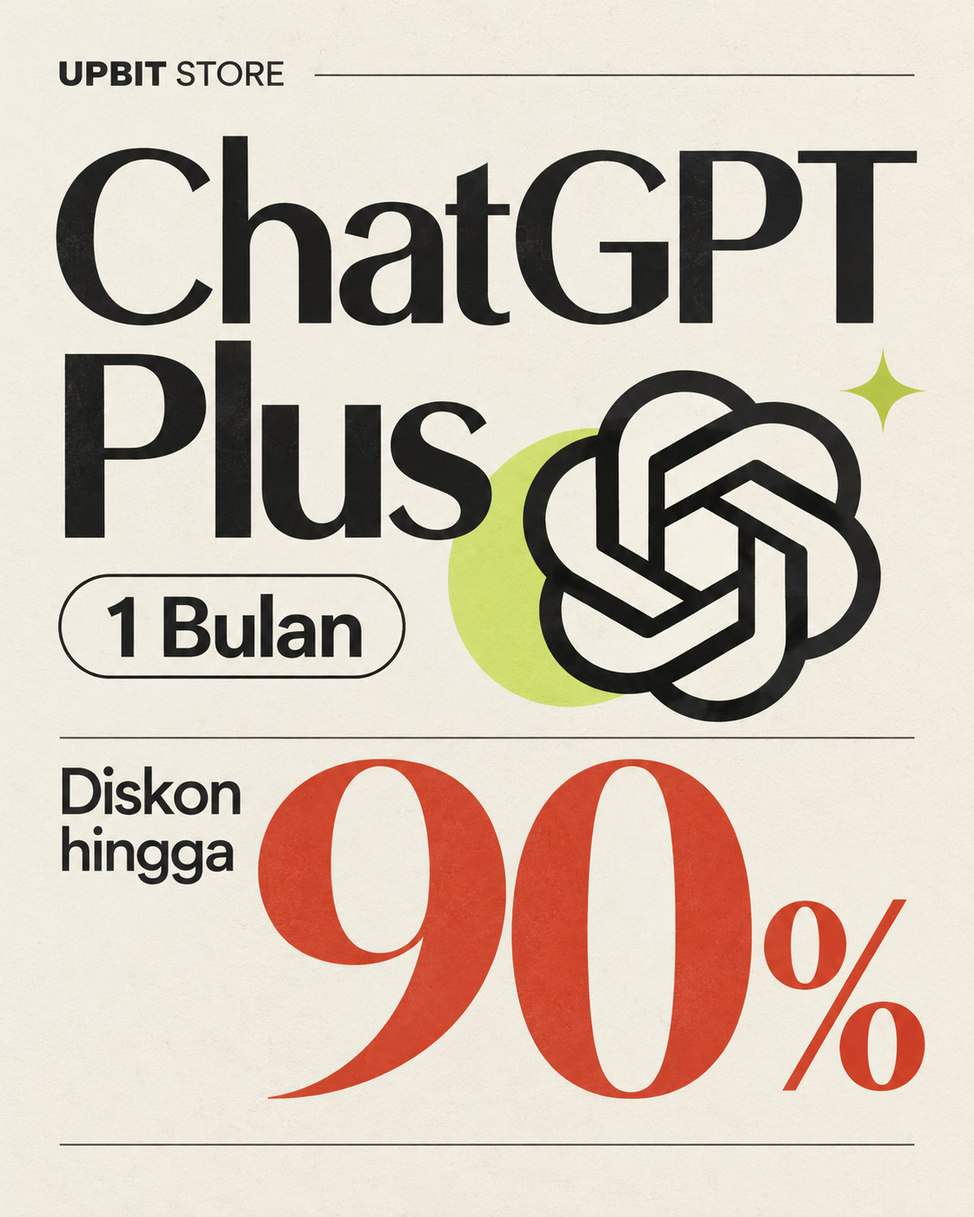
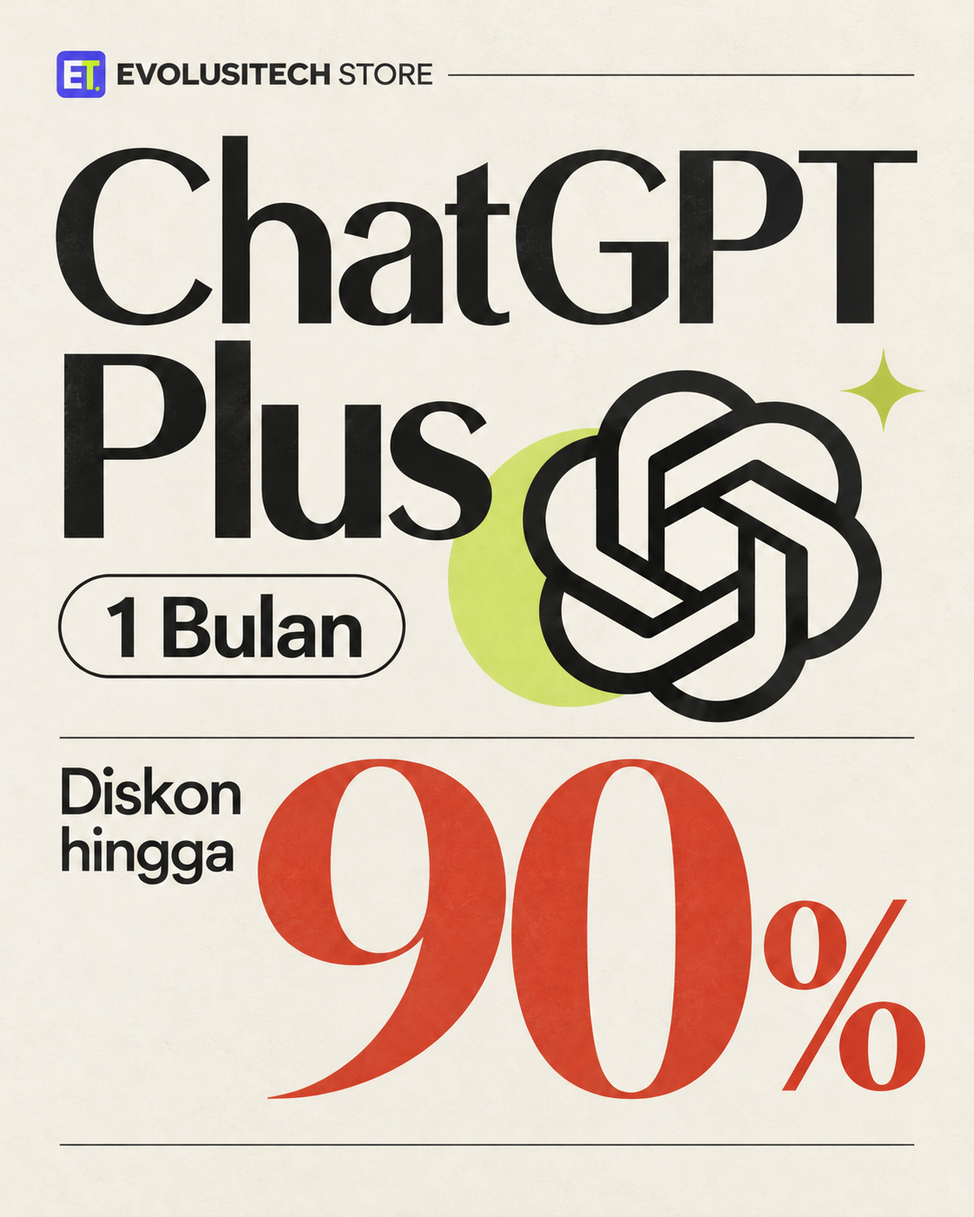
Rebrand storefront as EvolusiTech Store

Changed region(s): [[0.0624, 0.0307, 0.4367, 0.092], [0.8734, 0.4601, 0.9046, 0.4907]]

diff --git a/app/src/i18n/translations.js b/app/src/i18n/translations.js
@@ -1,5 +1,5 @@
-// Kamus multi-bahasa Upbit Store. Struktur per-key: { key: { en, zh, ja, id, ru, ms, hi, de, vi } }.
-// Brand & nama produk (Upbit Store, Claude, ChatGPT, Gemini, AI) tidak diterjemahkan.
+// Kamus multi-bahasa EvolusiTech Store. Struktur per-key: { key: { en, zh, ja, id, ru, ms, hi, de, vi } }.
+// Brand & nama produk (EvolusiTech Store, Claude, ChatGPT, Gemini, AI) tidak diterjemahkan.
 
 // Daftar bahasa untuk switcher. `name` = nama asli bahasa, `tag` = label singkat.
 export const LANGS = [
@@ -93,11 +93,11 @@ export const T = {
   'footer.warranty': { en: 'Warranty', zh: '保障', ja: '保証', id: 'Garansi', ru: 'Гарантия', ms: 'Jaminan', hi: 'वारंटी', de: 'Garantie', vi: 'Bảo hành' },
   'footer.contact': { en: 'Contact', zh: '联系', ja: 'お問い合わせ', id: 'Kontak', ru: 'Контакты', ms: 'Hubungi', hi: 'संपर्क', de: 'Kontakt', vi: 'Liên hệ' },
   'footer.faq': { en: 'FAQ', zh: '常见问题', ja: 'よくある質問', id: 'FAQ', ru: 'Вопросы', ms: 'Soalan Lazim', hi: 'सामान्य प्रश्न', de: 'FAQ', vi: 'Câu hỏi' },
-  'footer.rights': { en: '© 2026 Upbit Store. All rights reserved.', zh: '© 2026 Upbit Store. 版权所有。', ja: '© 2026 Upbit Store. 無断転載を禁じます。', id: '© 2026 Upbit Store. Seluruh hak cipta dilindungi.', ru: '© 2026 Upbit Store. Все права защищены.', ms: '© 2026 Upbit Store. Hak cipta terpelihara.', hi: '© 2026 Upbit Store. सर्वाधिकार सुरक्षित।', de: '© 2026 Upbit Store. Alle Rechte vorbehalten.', vi: '© 2026 Upbit Store. Bảo lưu mọi quyền.' },
+  'footer.rights': { en: '© 2026 EvolusiTech Store. All rights reserved.', zh: '© 2026 EvolusiTech Store. 版权所有。', ja: '© 2026 EvolusiTech Store. 無断転載を禁じます。', id: '© 2026 EvolusiTech Store. Seluruh hak cipta dilindungi.', ru: '© 2026 EvolusiTech Store. Все права защищены.', ms: '© 2026 EvolusiTech Store. Hak cipta terpelihara.', hi: '© 2026 EvolusiTech Store. सर्वाधिकार सुरक्षित।', de: '© 2026 EvolusiTech Store. Alle Rechte vorbehalten.', vi: '© 2026 EvolusiTech Store. Bảo lưu mọi quyền.' },
   'footer.madeFor': { en: 'Built for digital creators & professionals.', zh: '为数字创作者与专业人士打造。', ja: 'デジタルクリエイター＆プロのために。', id: 'Dibuat untuk kreator & profesional digital.', ru: 'Создано для цифровых креаторов и профессионалов.', ms: 'Dibina untuk kreator & profesional digital.', hi: 'डिजिटल क्रिएटर्स और पेशेवरों के लिए बनाया गया।', de: 'Für digitale Kreative & Profis entwickelt.', vi: 'Dành cho nhà sáng tạo & chuyên gia số.' },
 
   // ---------- Auth ----------
-  'auth.welcome': { en: 'WELCOME TO UPBIT STORE', zh: '欢迎来到 UPBIT STORE', ja: 'UPBIT STORE へようこそ', id: 'SELAMAT DATANG DI UPBIT STORE', ru: 'ДОБРО ПОЖАЛОВАТЬ В UPBIT STORE', ms: 'SELAMAT DATANG KE UPBIT STORE', hi: 'UPBIT STORE में आपका स्वागत है', de: 'WILLKOMMEN BEI UPBIT STORE', vi: 'CHÀO MỪNG ĐẾN UPBIT STORE' },
+  'auth.welcome': { en: 'WELCOME TO EVOLUSITECH STORE', zh: '欢迎来到 EVOLUSITECH STORE', ja: 'EVOLUSITECH STORE へようこそ', id: 'SELAMAT DATANG DI EVOLUSITECH STORE', ru: 'ДОБРО ПОЖАЛОВАТЬ В EVOLUSITECH STORE', ms: 'SELAMAT DATANG KE EVOLUSITECH STORE', hi: 'EVOLUSITECH STORE में आपका स्वागत है', de: 'WILLKOMMEN BEI EVOLUSITECH STORE', vi: 'CHÀO MỪNG ĐẾN EVOLUSITECH STORE' },
   'auth.premiumBadge': { en: 'Premium AI Marketplace', zh: '高级 AI 市场', ja: 'プレミアムAIマーケット', id: 'Marketplace AI Premium', ru: 'Премиум AI-маркетплейс', ms: 'Pasaran AI Premium', hi: 'प्रीमियम AI मार्केटप्लेस', de: 'Premium-KI-Marktplatz', vi: 'Sàn AI cao cấp' },
   'auth.subtitle': { en: 'Access Claude, ChatGPT, Gemini, and dozens of other premium AI services — legal, instant, guaranteed.', zh: '畅享 Claude、ChatGPT、Gemini 等数十种高级 AI 服务 — 正版、即时、有保障。', ja: 'Claude、ChatGPT、Gemini など数十のプレミアムAIサービスにアクセス — 正規・即時・保証付き。', id: 'Akses Claude, ChatGPT, Gemini, dan puluhan layanan AI premium lain — legal, instan, bergaransi.', ru: 'Доступ к Claude, ChatGPT, Gemini и десяткам других премиум AI-сервисов — легально, мгновенно, с гарантией.', ms: 'Akses Claude, ChatGPT, Gemini, dan puluhan perkhidmatan AI premium lain — sah, segera, dijamin.', hi: 'Claude, ChatGPT, Gemini और दर्जनों अन्य प्रीमियम AI सेवाओं तक पहुंच — वैध, तुरंत, गारंटीड।', de: 'Zugang zu Claude, ChatGPT, Gemini und Dutzenden weiteren Premium-KI-Diensten — legal, sofort, garantiert.', vi: 'Truy cập Claude, ChatGPT, Gemini và hàng chục dịch vụ AI cao cấp khác — hợp pháp, tức thì, bảo đảm.' },
   'auth.feature1': { en: 'Full warranty on every product', zh: '每件产品全面保障', ja: '全製品に完全保証', id: 'Garansi penuh setiap produk', ru: 'Полная гарантия на каждый товар', ms: 'Jaminan penuh setiap produk', hi: 'हर उत्पाद पर पूर्ण वारंटी', de: 'Volle Garantie auf jedes Produkt', vi: 'Bảo hành đầy đủ mọi sản phẩm' },
@@ -107,7 +107,7 @@ export const T = {
   'auth.signInAccount': { en: 'Sign In', zh: '账户登录', ja: 'アカウントログイン', id: 'Masuk Akun', ru: 'Вход в аккаунт', ms: 'Log Masuk Akaun', hi: 'खाता साइन इन', de: 'Konto-Anmeldung', vi: 'Đăng nhập tài khoản' },
   'auth.signIn': { en: 'SIGN IN', zh: '登录', ja: 'ログイン', id: 'MASUK', ru: 'ВОЙТИ', ms: 'LOG MASUK', hi: 'साइन इन', de: 'ANMELDEN', vi: 'ĐĂNG NHẬP' },
   'auth.signInSubtitle': { en: 'Sign in with your Google account to start shopping premium digital products.', zh: '使用您的 Google 账户登录，开始选购高级数字产品。', ja: 'Googleアカウントでログインして、プレミアムなデジタル製品の購入を始めましょう。', id: 'Masuk dengan akun Google kamu untuk mulai belanja produk digital premium.', ru: 'Войдите через аккаунт Google, чтобы начать покупки премиум цифровых товаров.', ms: 'Log masuk dengan akaun Google anda untuk mula membeli produk digital premium.', hi: 'प्रीमियम डिजिटल उत्पाद खरीदना शुरू करने के लिए अपने Google खाते से साइन इन करें।', de: 'Melden Sie sich mit Ihrem Google-Konto an, um Premium-Digitalprodukte zu kaufen.', vi: 'Đăng nhập bằng tài khoản Google để bắt đầu mua sản phẩm số cao cấp.' },
-  'auth.terms': { en: "By continuing you agree to Upbit Store's Terms & Privacy Policy.", zh: '继续即表示您同意 Upbit Store 的条款与隐私政策。', ja: '続行すると、Upbit Store の利用規約とプライバシーポリシーに同意したものとみなされます。', id: 'Dengan melanjutkan kamu menyetujui Ketentuan & Kebijakan Privasi Upbit Store.', ru: 'Продолжая, вы соглашаетесь с Условиями и Политикой конфиденциальности Upbit Store.', ms: 'Dengan meneruskan, anda bersetuju dengan Terma & Dasar Privasi Upbit Store.', hi: 'जारी रखकर आप Upbit Store की शर्तों और गोपनीयता नीति से सहमत होते हैं।', de: 'Indem Sie fortfahren, stimmen Sie den AGB & Datenschutzbestimmungen von Upbit Store zu.', vi: 'Khi tiếp tục, bạn đồng ý với Điều khoản & Chính sách bảo mật của Upbit Store.' },
+  'auth.terms': { en: "By continuing you agree to EvolusiTech Store's Terms & Privacy Policy.", zh: '继续即表示您同意 EvolusiTech Store 的条款与隐私政策。', ja: '続行すると、EvolusiTech Store の利用規約とプライバシーポリシーに同意したものとみなされます。', id: 'Dengan melanjutkan kamu menyetujui Ketentuan & Kebijakan Privasi EvolusiTech Store.', ru: 'Продолжая, вы соглашаетесь с Условиями и Политикой конфиденциальности EvolusiTech Store.', ms: 'Dengan meneruskan, anda bersetuju dengan Terma & Dasar Privasi EvolusiTech Store.', hi: 'जारी रखकर आप EvolusiTech Store की शर्तों और गोपनीयता नीति से सहमत होते हैं।', de: 'Indem Sie fortfahren, stimmen Sie den AGB & Datenschutzbestimmungen von EvolusiTech Store zu.', vi: 'Khi tiếp tục, bạn đồng ý với Điều khoản & Chính sách bảo mật của EvolusiTech Store.' },
   'auth.accountAccess': { en: 'Account access', id: 'Akses akun' },
   'auth.createAccount': { en: 'Create account', id: 'Buat akun' },
   'auth.createAccountSubtitle': { en: 'Use a username, email, and password. No verification code is required.', id: 'Gunakan username, email, dan password. Tidak perlu kode verifikasi.' },
@@ -399,9 +399,9 @@ export const T = {
   'pd.related': { en: 'SIMILAR PRODUCTS', zh: '类似产品', ja: '関連製品', id: 'PRODUK SERUPA', ru: 'ПОХОЖИЕ ТОВАРЫ', ms: 'PRODUK SERUPA', hi: 'समान उत्पाद', de: 'ÄHNLICHE PRODUKTE', vi: 'SẢN PHẨM TƯƠNG TỰ' },
 
   // ---------- About ----------
-  'about.eyebrow': { en: 'About Upbit Store', zh: '关于 Upbit Store', ja: 'Upbit Store について', id: 'Tentang Upbit Store', ru: 'Об Upbit Store', ms: 'Tentang Upbit Store', hi: 'Upbit Store के बारे में', de: 'Über Upbit Store', vi: 'Về Upbit Store' },
+  'about.eyebrow': { en: 'About EvolusiTech Store', zh: '关于 EvolusiTech Store', ja: 'EvolusiTech Store について', id: 'Tentang EvolusiTech Store', ru: 'Об EvolusiTech Store', ms: 'Tentang EvolusiTech Store', hi: 'EvolusiTech Store के बारे में', de: 'Über EvolusiTech Store', vi: 'Về EvolusiTech Store' },
   'about.title': { en: 'PREMIUM DIGITAL PRODUCTS, INSTANT & GUARANTEED', zh: '高级数字产品，即时且有保障', ja: 'プレミアムなデジタル製品を即時・保証付きで', id: 'PRODUK DIGITAL PREMIUM, INSTAN & BERGARANSI', ru: 'ПРЕМИУМ ЦИФРОВЫЕ ТОВАРЫ, МГНОВЕННО И С ГАРАНТИЕЙ', ms: 'PRODUK DIGITAL PREMIUM, SEGERA & DIJAMIN', hi: 'प्रीमियम डिजिटल उत्पाद, तुरंत और गारंटीड', de: 'PREMIUM-DIGITALPRODUKTE, SOFORT & GARANTIERT', vi: 'SẢN PHẨM SỐ CAO CẤP, TỨC THÌ & BẢO ĐẢM' },
-  'about.intro': { en: 'Upbit Store is a digital product marketplace selling premium AI accounts, software, and subscriptions — legal, verified, with full warranty and instant delivery.', zh: 'Upbit Store 是一个数字产品市场，销售高级 AI 账户、软件和订阅 — 正版、已验证、提供完整保障和即时交付。', ja: 'Upbit Store は、プレミアムなAIアカウント、ソフト、サブスクを販売するデジタル製品マーケットプレイスです — 正規・認証済み・完全保証・即時配信。', id: 'Upbit Store adalah marketplace produk digital yang menjual akun AI premium, software, dan langganan — legal, terverifikasi, dengan garansi penuh dan proses instan.', ru: 'Upbit Store — маркетплейс цифровых товаров: премиум AI-аккаунты, ПО и подписки — легально, проверено, с полной гарантией и мгновенной доставкой.', ms: 'Upbit Store ialah pasaran produk digital yang menjual akaun AI premium, perisian, dan langganan — sah, disahkan, dengan jaminan penuh dan penghantaran segera.', hi: 'Upbit Store एक डिजिटल उत्पाद मार्केटप्लेस है जो प्रीमियम AI खाते, सॉफ़्टवेयर और सब्सक्रिप्शन बेचता है — वैध, सत्यापित, पूर्ण वारंटी और तुरंत डिलीवरी के साथ।', de: 'Upbit Store ist ein Marktplatz für digitale Produkte: Premium-KI-Konten, Software und Abos — legal, verifiziert, mit voller Garantie und sofortiger Lieferung.', vi: 'Upbit Store là sàn sản phẩm số bán tài khoản AI cao cấp, phần mềm và gói đăng ký — hợp pháp, đã xác minh, bảo hành đầy đủ và giao ngay.' },
+  'about.intro': { en: 'EvolusiTech Store is a digital product marketplace selling premium AI accounts, software, and subscriptions — legal, verified, with full warranty and instant delivery.', zh: 'EvolusiTech Store 是一个数字产品市场，销售高级 AI 账户、软件和订阅 — 正版、已验证、提供完整保障和即时交付。', ja: 'EvolusiTech Store は、プレミアムなAIアカウント、ソフト、サブスクを販売するデジタル製品マーケットプレイスです — 正規・認証済み・完全保証・即時配信。', id: 'EvolusiTech Store adalah marketplace produk digital yang menjual akun AI premium, software, dan langganan — legal, terverifikasi, dengan garansi penuh dan proses instan.', ru: 'EvolusiTech Store — маркетплейс цифровых товаров: премиум AI-аккаунты, ПО и подписки — легально, проверено, с полной гарантией и мгновенной доставкой.', ms: 'EvolusiTech Store ialah pasaran produk digital yang menjual akaun AI premium, perisian, dan langganan — sah, disahkan, dengan jaminan penuh dan penghantaran segera.', hi: 'EvolusiTech Store एक डिजिटल उत्पाद मार्केटप्लेस है जो प्रीमियम AI खाते, सॉफ़्टवेयर और सब्सक्रिप्शन बेचता है — वैध, सत्यापित, पूर्ण वारंटी और तुरंत डिलीवरी के साथ।', de: 'EvolusiTech Store ist ein Marktplatz für digitale Produkte: Premium-KI-Konten, Software und Abos — legal, verifiziert, mit voller Garantie und sofortiger Lieferung.', vi: 'EvolusiTech Store là sàn sản phẩm số bán tài khoản AI cao cấp, phần mềm và gói đăng ký — hợp pháp, đã xác minh, bảo hành đầy đủ và giao ngay.' },
   'about.howTitle': { en: 'HOW TO ORDER', zh: '如何下单', ja: '注文方法', id: 'CARA ORDER', ru: 'КАК ЗАКАЗАТЬ', ms: 'CARA MEMBELI', hi: 'ऑर्डर कैसे करें', de: 'SO BESTELLEN', vi: 'CÁCH ĐẶT HÀNG' },
   'about.howSub': { en: 'Just 4 easy steps to get your premium product.', zh: '只需 4 个简单步骤即可获得您的高级产品。', ja: 'たった4つの簡単なステップでプレミアム製品を入手。', id: 'Hanya 4 langkah mudah untuk mendapatkan produk premiummu.', ru: 'Всего 4 простых шага, чтобы получить премиум-продукт.', ms: 'Hanya 4 langkah mudah untuk dapatkan produk premium anda.', hi: 'अपना प्रीमियम उत्पाद पाने के लिए केवल 4 आसान चरण।', de: 'Nur 4 einfache Schritte zu Ihrem Premium-Produkt.', vi: 'Chỉ 4 bước đơn giản để nhận sản phẩm cao cấp của bạn.' },
   'about.step1Title': { en: 'Choose a product', zh: '选择产品', ja: '製品を選ぶ', id: 'Pilih produk', ru: 'Выберите товар', ms: 'Pilih produk', hi: 'उत्पाद चुनें', de: 'Produkt wählen', vi: 'Chọn sản phẩm' },
@@ -437,7 +437,7 @@ export const T = {
   'about.ctaBtn': { en: 'Open Catalog', zh: '打开目录', ja: 'カタログを開く', id: 'Buka Katalog', ru: 'Открыть каталог', ms: 'Buka Katalog', hi: 'कैटलॉग खोलें', de: 'Katalog öffnen', vi: 'Mở danh mục' },
   'about.eyebrow2': { en: 'About & How to Order', zh: '关于与购买指南', ja: '概要と注文方法', id: 'Tentang & Cara Order', ru: 'О нас и как заказать', ms: 'Tentang & Cara Membeli', hi: 'परिचय और ऑर्डर कैसे करें', de: 'Über uns & Bestellung', vi: 'Giới thiệu & Cách đặt' },
   'about.h1': { en: 'SHOPPING FOR DIGITAL PRODUCTS MADE EASY & SAFE', zh: '购买数字产品变得简单又安全', ja: 'デジタル製品の購入を簡単・安全に', id: 'BELANJA PRODUK DIGITAL JADI MUDAH & AMAN', ru: 'ПОКУПКА ЦИФРОВЫХ ТОВАРОВ — ЛЕГКО И БЕЗОПАСНО', ms: 'MEMBELI PRODUK DIGITAL JADI MUDAH & SELAMAT', hi: 'डिजिटल उत्पादों की खरीदारी आसान और सुरक्षित', de: 'DIGITALE PRODUKTE EINFACH & SICHER KAUFEN', vi: 'MUA SẢN PHẨM SỐ DỄ DÀNG & AN TOÀN' },
-  'about.introReal': { en: 'Upbit Store makes it easy to get AI access, software, and premium subscriptions at the best price. Follow the 4 steps below to order.', zh: 'Upbit Store 让您以最优价格轻松获得 AI 访问、软件和高级订阅。按照下面 4 个步骤下单。', ja: 'Upbit Store なら、AIアクセス、ソフト、プレミアムサブスクを最安値で簡単に入手できます。下の4ステップでご注文ください。', id: 'Upbit Store hadir untuk memudahkan kamu mendapatkan akses AI, software, dan langganan premium dengan harga terbaik. Ikuti 4 langkah di bawah untuk memesan.', ru: 'Upbit Store помогает легко получить доступ к AI, ПО и премиум-подпискам по лучшей цене. Следуйте 4 шагам ниже.', ms: 'Upbit Store memudahkan anda mendapatkan akses AI, perisian, dan langganan premium pada harga terbaik. Ikut 4 langkah di bawah untuk memesan.', hi: 'Upbit Store आपके लिए AI एक्सेस, सॉफ़्टवेयर और प्रीमियम सब्सक्रिप्शन सर्वोत्तम मूल्य पर पाना आसान बनाता है। ऑर्डर के लिए नीचे 4 चरण अपनाएं।', de: 'Upbit Store macht es einfach, KI-Zugang, Software und Premium-Abos zum Bestpreis zu erhalten. Folgen Sie den 4 Schritten unten.', vi: 'Upbit Store giúp bạn dễ dàng có quyền truy cập AI, phần mềm và gói cao cấp với giá tốt nhất. Làm theo 4 bước dưới để đặt hàng.' },
+  'about.introReal': { en: 'EvolusiTech Store makes it easy to get AI access, software, and premium subscriptions at the best price. Follow the 4 steps below to order.', zh: 'EvolusiTech Store 让您以最优价格轻松获得 AI 访问、软件和高级订阅。按照下面 4 个步骤下单。', ja: 'EvolusiTech Store なら、AIアクセス、ソフト、プレミアムサブスクを最安値で簡単に入手できます。下の4ステップでご注文ください。', id: 'EvolusiTech Store hadir untuk memudahkan kamu mendapatkan akses AI, software, dan langganan premium dengan harga terbaik. Ikuti 4 langkah di bawah untuk memesan.', ru: 'EvolusiTech Store помогает легко получить доступ к AI, ПО и премиум-подпискам по лучшей цене. Следуйте 4 шагам ниже.', ms: 'EvolusiTech Store memudahkan anda mendapatkan akses AI, perisian, dan langganan premium pada harga terbaik. Ikut 4 langkah di bawah untuk memesan.', hi: 'EvolusiTech Store आपके लिए AI एक्सेस, सॉफ़्टवेयर और प्रीमियम सब्सक्रिप्शन सर्वोत्तम मूल्य पर पाना आसान बनाता है। ऑर्डर के लिए नीचे 4 चरण अपनाएं।', de: 'EvolusiTech Store macht es einfach, KI-Zugang, Software und Premium-Abos zum Bestpreis zu erhalten. Folgen Sie den 4 Schritten unten.', vi: 'EvolusiTech Store giúp bạn dễ dàng có quyền truy cập AI, phần mềm và gói cao cấp với giá tốt nhất. Làm theo 4 bước dưới để đặt hàng.' },
   'about.ctaText': { en: 'Browse the full catalog and get your premium product now.', zh: '浏览完整目录，立即获得您的高级产品。', ja: '全カタログを見て、今すぐプレミアム製品を入手しましょう。', id: 'Jelajahi katalog lengkap dan dapatkan produk premiummu sekarang.', ru: 'Просмотрите полный каталог и получите премиум-продукт сейчас.', ms: 'Layari katalog penuh dan dapatkan produk premium anda sekarang.', hi: 'पूरा कैटलॉग ब्राउज़ करें और अभी अपना प्रीमियम उत्पाद पाएं।', de: 'Durchsuchen Sie den vollständigen Katalog und holen Sie sich jetzt Ihr Premium-Produkt.', vi: 'Duyệt toàn bộ danh mục và nhận sản phẩm cao cấp của bạn ngay.' },
 
   // ---------- Notifikasi (lonceng) ----------
@@ -467,7 +467,7 @@ export const T = {
   'home.viewAll': { en: 'View all products', zh: '查看所有产品', ja: 'すべての製品を見る', id: 'Lihat semua produk', ru: 'Все товары', ms: 'Lihat semua produk', hi: 'सभी उत्पाद देखें', de: 'Alle Produkte ansehen', vi: 'Xem tất cả sản phẩm' },
   'home.ctaBadge': { en: 'Start Today', zh: '今天开始', ja: '今日から始める', id: 'Mulai Hari Ini', ru: 'Начните сегодня', ms: 'Mula Hari Ini', hi: 'आज शुरू करें', de: 'Heute starten', vi: 'Bắt đầu hôm nay' },
   'home.ctaTitle': { en: 'BOOST YOUR PRODUCTIVITY WITH TRUSTED PREMIUM ACCOUNTS', zh: '用值得信赖的高级账户提升您的生产力', ja: '信頼できるプレミアムアカウントで生産性を向上', id: 'UPGRADE PRODUKTIVITASMU DENGAN AKUN PREMIUM TERPERCAYA', ru: 'ПОВЫСЬТЕ ПРОДУКТИВНОСТЬ С НАДЁЖНЫМИ ПРЕМИУМ-АККАУНТАМИ', ms: 'TINGKATKAN PRODUKTIVITI ANDA DENGAN AKAUN PREMIUM DIPERCAYAI', hi: 'विश्वसनीय प्रीमियम खातों से अपनी उत्पादकता बढ़ाएं', de: 'STEIGERN SIE IHRE PRODUKTIVITÄT MIT VERTRAUENSWÜRDIGEN PREMIUM-KONTEN', vi: 'TĂNG NĂNG SUẤT VỚI TÀI KHOẢN CAO CẤP ĐÁNG TIN CẬY' },
-  'home.ctaText': { en: 'Thousands of customers already trust Upbit Store for their digital needs. Now it’s your turn.', zh: '数千名客户已信赖 Upbit Store 满足他们的数字需求。现在轮到您了。', ja: '何千ものお客様がデジタルニーズで Upbit Store を信頼しています。次はあなたの番です。', id: 'Ribuan pelanggan sudah mempercayakan kebutuhan digital mereka pada Upbit Store. Giliranmu sekarang.', ru: 'Тысячи клиентов уже доверяют Upbit Store свои цифровые нужды. Теперь ваша очередь.', ms: 'Ribuan pelanggan sudah mempercayai Upbit Store untuk keperluan digital mereka. Kini giliran anda.', hi: 'हजारों ग्राहक अपनी डिजिटल जरूरतों के लिए Upbit Store पर भरोसा करते हैं। अब आपकी बारी।', de: 'Tausende Kunden vertrauen Upbit Store bereits für ihre digitalen Bedürfnisse. Jetzt sind Sie dran.', vi: 'Hàng nghìn khách hàng đã tin tưởng Upbit Store cho nhu cầu số. Giờ đến lượt bạn.' },
+  'home.ctaText': { en: 'Thousands of customers already trust EvolusiTech Store for their digital needs. Now it’s your turn.', zh: '数千名客户已信赖 EvolusiTech Store 满足他们的数字需求。现在轮到您了。', ja: '何千ものお客様がデジタルニーズで EvolusiTech Store を信頼しています。次はあなたの番です。', id: 'Ribuan pelanggan sudah mempercayakan kebutuhan digital mereka pada EvolusiTech Store. Giliranmu sekarang.', ru: 'Тысячи клиентов уже доверяют EvolusiTech Store свои цифровые нужды. Теперь ваша очередь.', ms: 'Ribuan pelanggan sudah mempercayai EvolusiTech Store untuk keperluan digital mereka. Kini giliran anda.', hi: 'हजारों ग्राहक अपनी डिजिटल जरूरतों के लिए EvolusiTech Store पर भरोसा करते हैं। अब आपकी बारी।', de: 'Tausende Kunden vertrauen EvolusiTech Store bereits für ihre digitalen Bedürfnisse. Jetzt sind Sie dran.', vi: 'Hàng nghìn khách hàng đã tin tưởng EvolusiTech Store cho nhu cầu số. Giờ đến lượt bạn.' },
   'home.ctaBtn': { en: 'Explore Catalog', zh: '浏览目录', ja: 'カタログを見る', id: 'Jelajahi Katalog', ru: 'Открыть каталог', ms: 'Terokai Katalog', hi: 'कैटलॉग देखें', de: 'Katalog entdecken', vi: 'Khám phá danh mục' },
 
   // ---------- Sort ----------

diff --git a/server/src/telegramBot.js b/server/src/telegramBot.js
@@ -1,5 +1,5 @@
 // ═══════════════════════════════════════════════════════════════════
-// BOT TELEGRAM UPBIT STORE — versi serverless (webhook, tanpa VPS)
+// BOT TELEGRAM EVOLUSITECH STORE — versi serverless (webhook, tanpa VPS)
 // Satu dompet dengan website: saldo, check-in, order = database Neon.
 // State percakapan disimpan di tabel TelegramState (serverless tanpa memori).
 // SetWebhook:
@@ -137,20 +137,20 @@ const LANGS = {
 }
 const S = {
   welcome: {
-    id: '✨ <b>Selamat Datang di Upbit Store!</b>\n━━━━━━━━━━━━━━━━━━\n👤 <b>Tamu (Guest)</b>\n💰 Saldo: <b>Rp 0 (Mode Tamu)</b>\n🔗 Status: <b>Belum Tertaut</b>\n\n🛍 <i>Jelajahi katalog & flash sale langsung di bawah!</i>\n💡 <i>Tautkan akun website kapan saja untuk sinkronisasi saldo & check-in.</i>\n\nPilih menu di bawah 👇',
-    en: '✨ <b>Welcome to Upbit Store!</b>\n━━━━━━━━━━━━━━━━━━\n👤 <b>Guest</b>\n💰 Balance: <b>Rp 0 (Guest Mode)</b>\n🔗 Status: <b>Not Linked</b>\n\n🛍 <i>Browse products & flash sale below!</i>\n💡 <i>Link your website account anytime to sync balance & check-in.</i>\n\nPick a menu below 👇',
+    id: '✨ <b>Selamat Datang di EvolusiTech Store!</b>\n━━━━━━━━━━━━━━━━━━\n👤 <b>Tamu (Guest)</b>\n💰 Saldo: <b>Rp 0 (Mode Tamu)</b>\n🔗 Status: <b>Belum Tertaut</b>\n\n🛍 <i>Jelajahi katalog & flash sale langsung di bawah!</i>\n💡 <i>Tautkan akun website kapan saja untuk sinkronisasi saldo & check-in.</i>\n\nPilih menu di bawah 👇',
+    en: '✨ <b>Welcome to EvolusiTech Store!</b>\n━━━━━━━━━━━━━━━━━━\n👤 <b>Guest</b>\n💰 Balance: <b>Rp 0 (Guest Mode)</b>\n🔗 Status: <b>Not Linked</b>\n\n🛍 <i>Browse products & flash sale below!</i>\n💡 <i>Link your website account anytime to sync balance & check-in.</i>\n\nPick a menu below 👇',
   },
   menuLinked: {
-    id: '✨ <b>Upbit Store — Bot Resmi</b>\n━━━━━━━━━━━━━━━━━━\n👤 <b>{name}</b>\n💰 Saldo: <b>{balance}</b>\n🔗 Status: <b>Terhubung ke Website ✅</b>\n\nSilakan pilih menu di bawah untuk berbelanja 👇',
-    en: '✨ <b>Upbit Store — Official Bot</b>\n━━━━━━━━━━━━━━━━━━\n👤 <b>{name}</b>\n💰 Balance: <b>{balance}</b>\n🔗 Status: <b>Connected to Website ✅</b>\n\nPick a menu below 👇',
+    id: '✨ <b>EvolusiTech Store — Bot Resmi</b>\n━━━━━━━━━━━━━━━━━━\n👤 <b>{name}</b>\n💰 Saldo: <b>{balance}</b>\n🔗 Status: <b>Terhubung ke Website ✅</b>\n\nSilakan pilih menu di bawah untuk berbelanja 👇',
+    en: '✨ <b>EvolusiTech Store — Official Bot</b>\n━━━━━━━━━━━━━━━━━━\n👤 <b>{name}</b>\n💰 Balance: <b>{balance}</b>\n🔗 Status: <b>Connected to Website ✅</b>\n\nPick a menu below 👇',
   },
   menuGuest: {
-    id: '✨ <b>Selamat Datang di Upbit Store!</b>\n━━━━━━━━━━━━━━━━━━\n👤 <b>Tamu (Guest)</b>\n💰 Saldo: <b>Rp 0 (Mode Tamu)</b>\n🔗 Status: <b>Belum Tertaut</b>\n\n🛍 <i>Jelajahi katalog & flash sale langsung di bawah!</i>\n💡 <i>Tautkan akun websitemu kapan saja untuk sinkronisasi saldo & check-in.</i>\n\nPilih menu di bawah 👇',
-    en: '✨ <b>Welcome to Upbit Store!</b>\n━━━━━━━━━━━━━━━━━━\n👤 <b>Guest</b>\n💰 Balance: <b>Rp 0 (Guest Mode)</b>\n🔗 Status: <b>Not Linked</b>\n\n🛍 <i>Browse products & flash sale below!</i>\n💡 <i>Link your website account anytime to sync balance & check-in.</i>\n\nPick a menu below 👇',
+    id: '✨ <b>Selamat Datang di EvolusiTech Store!</b>\n━━━━━━━━━━━━━━━━━━\n👤 <b>Tamu (Guest)</b>\n💰 Saldo: <b>Rp 0 (Mode Tamu)</b>\n🔗 Status: <b>Belum Tertaut</b>\n\n🛍 <i>Jelajahi katalog & flash sale langsung di bawah!</i>\n💡 <i>Tautkan akun websitemu kapan saja untuk sinkronisasi saldo & check-in.</i>\n\nPilih menu di bawah 👇',
+    en: '✨ <b>Welcome to EvolusiTech Store!</b>\n━━━━━━━━━━━━━━━━━━\n👤 <b>Guest</b>\n💰 Balance: <b>Rp 0 (Guest Mode)</b>\n🔗 Status: <b>Not Linked</b>\n\n🛍 <i>Browse products & flash sale below!</i>\n💡 <i>Link your website account anytime to sync balance & check-in.</i>\n\nPick a menu below 👇',
   },
   menu: {
-    id: '✨ <b>Upbit Store</b>\n━━━━━━━━━━━━━━━━━━\n👤 <b>{name}</b>\n💰 Saldo: <b>{balance}</b>\n\nPilih menu di bawah 👇',
-    en: '✨ <b>Upbit Store</b>\n━━━━━━━━━━━━━━━━━━\n👤 <b>{name}</b>\n💰 Balance: <b>{balance}</b>\n\nPick a menu below 👇',
+    id: '✨ <b>EvolusiTech Store</b>\n━━━━━━━━━━━━━━━━━━\n👤 <b>{name}</b>\n💰 Saldo: <b>{balance}</b>\n\nPilih menu di bawah 👇',
+    en: '✨ <b>EvolusiTech Store</b>\n━━━━━━━━━━━━━━━━━━\n👤 <b>{name}</b>\n💰 Balance: <b>{balance}</b>\n\nPick a menu below 👇',
   },
   notLinked: {
     id: '🔐 <b>Akun belum terhubung</b>\n\nTekan tombol <b>🔗 Hubungkan Akun Website</b> di bawah ini → kamu dibawa ke website → setelah login, akun otomatis tersambung ke Telegram ini.\n\n✨ Bebas pakai Telegram siapa saja — asal jadi!',
@@ -173,8 +173,8 @@ const S = {
     en: '🔐 <b>Link Account to Complete Order</b>\n━━━━━━━━━━━━━━━━━━\nA website account is required so login credentials can be securely delivered to your email.\n\nTap below to link your website account in 1 click, or buy directly on the website:',
   },
   linked: {
-    id: '🎉 <b>Akun berhasil terhubung!</b>\n━━━━━━━━━━━━━━━━━━\n👤 {name}\n💰 Saldo: <b>{balance}</b>{migrated}\n\nSelamat bergabung resmi di Upbit Store 🛍',
-    en: '🎉 <b>Account linked successfully!</b>\n━━━━━━━━━━━━━━━━━━\n👤 {name}\n💰 Balance: <b>{balance}</b>{migrated}\n\nWelcome officially to Upbit Store 🛍',
+    id: '🎉 <b>Akun berhasil terhubung!</b>\n━━━━━━━━━━━━━━━━━━\n👤 {name}\n💰 Saldo: <b>{balance}</b>{migrated}\n\nSelamat bergabung resmi di EvolusiTech Store 🛍',
+    en: '🎉 <b>Account linked successfully!</b>\n━━━━━━━━━━━━━━━━━━\n👤 {name}\n💰 Balance: <b>{balance}</b>{migrated}\n\nWelcome officially to EvolusiTech Store 🛍',
   },
   migrated: {
     id: '\n🎁 Saldo lama bot <b>{amount}</b> sudah dipindahkan ke akun website kamu.',
@@ -264,7 +264,7 @@ async function spendOf(userId) {
 // Fitur tarik saldo (withdraw) dihapus — saldo hanya untuk belanja di toko.
 
 // ── Menu utama ──
-const BANNER_URL = STORE_URL + '/logo.png'
+const BANNER_URL = STORE_URL + '/evolusitech-store-mark.png'
 // Peta emoji kategori biar tombol katalog lebih hidup
 const CAT_EMOJI = [
   [/ai|asisten|assistant|chatbot/i, '🤖'],

diff --git a/app/src/index.css b/app/src/index.css
@@ -1,4 +1,4 @@
-/* ============ Upbit Store — Design Tokens ============ */
+/* ============ EvolusiTech Store — Design Tokens ============ */
 :root {
   --bg: #efece6;
   --bg-2: #e7e3da;
@@ -318,11 +318,10 @@ ul { list-style: none; }
 .site-nav.is-scrolled .brand-logo { height: 36px; }
 @media (max-width: 520px) { .brand-logo { height: 36px; } }
 
-/* Upbit Store mark + wordmark: the generated mark identifies the exchange/store idea;
-   live text keeps the name crisp at every size and makes it accessible to screen readers. */
+/* EvolusiTech Store mark + wordmark. Live text stays crisp at every size. */
 .brand-lockup { display: inline-flex; align-items: center; gap: 9px; line-height: 1; }
 .brand-mark { width: 38px; height: 38px; object-fit: contain; display: block; }
-.brand-wordmark { display: inline-flex; align-items: baseline; gap: 5px; font-family: var(--font-display); font-size: 17px; font-weight: 800; letter-spacing: -.025em; color: var(--ink); }
+.brand-wordmark { display: inline-flex; align-items: baseline; gap: 5px; font-family: var(--font-display); font-size: 16px; font-weight: 800; letter-spacing: -.035em; color: var(--ink); }
 .brand-wordmark span:first-child { color: var(--indigo); }
 .brand-wordmark span:last-child { color: var(--ink); }
 .brand-lockup-light .brand-wordmark { color: var(--bg); }
@@ -333,8 +332,21 @@ ul { list-style: none; }
 .sr-only { position: absolute; width: 1px; height: 1px; padding: 0; margin: -1px; overflow: hidden; clip: rect(0, 0, 0, 0); white-space: nowrap; border: 0; }
 @media (max-width: 520px) {
   .brand-lockup { gap: 7px; }
-  .brand-mark { width: 34px; height: 34px; }
-  .brand-wordmark { font-size: 15px; gap: 4px; }
+  .brand-mark { width: 30px; height: 30px; }
+  .brand-wordmark {
+    flex-direction: column;
+    align-items: flex-start;
+    gap: 2px;
+    font-size: 10.5px;
+    line-height: .9;
+    letter-spacing: -.025em;
+  }
+  .brand-wordmark span:last-child { font-size: 8px; letter-spacing: .12em; }
+}
+@media (max-width: 360px) {
+  .site-nav-inner { padding-inline: 10px; }
+  .site-nav-inner > div:last-child { gap: 6px !important; }
+  .site-nav-inner > div:last-child > a[href="/cart"] { padding: 8px 10px !important; }
 }
 
 /* ============ Mobile nav card dropdown ============ */

diff --git a/server/src/mailer.js b/server/src/mailer.js
@@ -1,7 +1,7 @@
 import nodemailer from 'nodemailer'
 
 const { SMTP_HOST, SMTP_PORT, SMTP_USER, SMTP_PASS, MAIL_FROM, CLIENT_ORIGIN } = process.env
-const FROM = MAIL_FROM || 'Upbit Store <no-reply@upbitstore.local>'
+const FROM = MAIL_FROM || 'EvolusiTech Store <no-reply@upbitstore.local>'
 const SITE = (CLIENT_ORIGIN || 'http://localhost:5173').split(',')[0]
 
 // Transport hanya dibuat bila SMTP dikonfigurasi. Tanpa itu → mode log (dev).
@@ -35,14 +35,14 @@ const shell = (title, bodyHtml) => `
 <div style="background:#efece6;padding:28px;font-family:Inter,Arial,sans-serif;color:#2b2b28">
   <div style="max-width:560px;margin:0 auto;background:#fff;border:1.5px solid #2b2b28;border-radius:18px;overflow:hidden">
     <div style="background:#2b2b28;padding:18px 24px">
-      <span style="font-family:'Space Grotesk',Arial,sans-serif;font-weight:700;font-size:18px;color:#fff;letter-spacing:.02em">UPBIT <span style="color:#c5f82a">STORE</span></span>
+      <span style="font-family:'Space Grotesk',Arial,sans-serif;font-weight:700;font-size:18px;color:#fff;letter-spacing:.02em">EVOLUSITECH <span style="color:#c5f82a">STORE</span></span>
     </div>
     <div style="padding:24px">
       <h1 style="font-size:19px;margin:0 0 12px">${title}</h1>
       ${bodyHtml}
     </div>
     <div style="padding:16px 24px;border-top:1px solid #e0ddd4;color:#8a887e;font-size:12px">
-      Email otomatis dari Upbit Store. Mohon jangan balas email ini.
+      Email otomatis dari EvolusiTech Store. Mohon jangan balas email ini.
     </div>
   </div>
 </div>`
@@ -64,7 +64,7 @@ export function sendOrderCreated(order) {
     </table>
     <a href="${SITE}/orders/${order.id}" style="display:inline-block;background:#4f46e5;color:#fff;text-decoration:none;font-weight:600;padding:12px 22px;border-radius:999px;font-size:14px">Lihat status pesanan</a>
   `)
-  send(order.deliveryEmail, `Pesanan ${order.id} diterima — Upbit Store`, html)
+  send(order.deliveryEmail, `Pesanan ${order.id} diterima — EvolusiTech Store`, html)
 }
 
 export function sendOrderCompleted(order) {

diff --git a/app/src/components/ReceiptModal.jsx b/app/src/components/ReceiptModal.jsx
@@ -54,15 +54,15 @@ export default function ReceiptModal({ order, onClose }) {
       // Logo (file lokal di /public — aman dibaca sebagai gambar)
       try {
         const img = new Image()
-        img.src = '/logo.png'
+        img.src = '/evolusitech-store-mark.png'
         await new Promise((ok, err) => { img.onload = ok; img.onerror = err })
         doc.addImage(img, 'PNG', 40, 36, 34, 34)
       } catch { /* logo gagal → lanjut tanpa logo */ }
 
       doc.setFont('helvetica', 'bold'); doc.setFontSize(17)
-      doc.text('UPBIT STORE', 84, 50)
+      doc.text('EVOLUSITECH STORE', 84, 50)
       doc.setFont('helvetica', 'normal'); doc.setFontSize(9); doc.setTextColor(110)
-      doc.text('Marketplace Produk Digital  ·  Upbit Store', 84, 63)
+      doc.text('Marketplace Produk Digital  ·  EvolusiTech Store', 84, 63)
       doc.setTextColor(20)
 
       y = 92
@@ -157,10 +157,10 @@ export default function ReceiptModal({ order, onClose }) {
       }}>
         {/* Kop struk */}
         <div style={{ display: 'flex', alignItems: 'center', gap: 11 }}>
-          <img src="/upbit-store-mark.png" alt="Logo Upbit Store" style={{ width: 40, height: 40, objectFit: 'contain' }} />
+          <img src="/evolusitech-store-mark.svg" alt="Logo EvolusiTech Store" style={{ width: 40, height: 40, objectFit: 'contain' }} />
           <div style={{ flex: 1 }}>
-            <div style={{ fontWeight: 900, fontSize: 16, letterSpacing: '.04em' }}>UPBIT STORE</div>
-            <div style={{ fontSize: 10.5, color: '#6f6f68' }}>Marketplace Produk Digital · Upbit Store</div>
+            <div style={{ fontWeight: 900, fontSize: 16, letterSpacing: '.04em' }}>EVOLUSITECH STORE</div>
+            <div style={{ fontSize: 10.5, color: '#6f6f68' }}>Marketplace Produk Digital · EvolusiTech Store</div>
           </div>
         </div>
 

diff --git a/app/index.html b/app/index.html
@@ -2,14 +2,14 @@
 <html lang="id">
   <head>
     <meta charset="UTF-8" />
-    <link rel="icon" type="image/png" href="/upbit-store-mark.png" />
+    <link rel="icon" type="image/svg+xml" href="/evolusitech-store-mark.svg" />
     <link rel="shortcut icon" href="/favicon.ico" />
     <meta name="viewport" content="width=device-width, initial-scale=1.0" />
-    <meta name="description" content="Upbit Store, marketplace produk digital premium untuk akun AI, software, dan langganan terverifikasi." />
+    <meta name="description" content="EvolusiTech Store, marketplace produk digital premium untuk akun AI, software, dan langganan terverifikasi." />
     <link rel="preconnect" href="https://fonts.googleapis.com" />
     <link rel="preconnect" href="https://fonts.gstatic.com" crossorigin />
     <link href="https://fonts.googleapis.com/css2?family=Inter:wght@400;500;600;700&family=Space+Grotesk:wght@500;600;700&display=swap" rel="stylesheet" />
-    <title>Upbit Store | Marketplace Produk Digital</title>
+    <title>EvolusiTech Store | Marketplace Produk Digital</title>
   </head>
   <body>
     <div id="root"></div>

diff --git a/app/src/components/AdminLayout.jsx b/app/src/components/AdminLayout.jsx
@@ -42,9 +42,9 @@ export default function AdminLayout({ children }) {
       {/* ===== Sidebar ===== */}
       <aside className={`admin-sidebar ${open ? 'is-open' : ''}`}>
         <div className="admin-brand">
-          <span className="admin-brand-mark"><img src="/upbit-store-mark.png" alt="" width="28" height="28" /></span>
+          <span className="admin-brand-mark"><img src="/evolusitech-store-mark.svg" alt="" width="28" height="28" /></span>
           <div>
-            <div className="admin-brand-name">Upbit Store</div>
+            <div className="admin-brand-name">EvolusiTech Store</div>
             <div className="admin-brand-sub">Admin Panel</div>
           </div>
           <button className="admin-sidebar-close" onClick={() => setOpen(false)} aria-label="Tutup menu">

diff --git a/app/src/pages/Auth.jsx b/app/src/pages/Auth.jsx
@@ -66,7 +66,7 @@ export default function Auth() {
           <Asterisk size={40} color="var(--lime)" spin />
         </div>
 
-        <Link to="/" aria-label="Upbit Store" style={{ position: 'relative', zIndex: 2 }}>
+        <Link to="/" aria-label="EvolusiTech Store" style={{ position: 'relative', zIndex: 2 }}>
           <Brand light />
         </Link>
 
@@ -101,7 +101,7 @@ export default function Auth() {
           </div>
         </div>
 
-        <span style={{ color: '#86857c', fontSize: 13, position: 'relative', zIndex: 2 }}>© 2026 Upbit Store</span>
+        <span style={{ color: '#86857c', fontSize: 13, position: 'relative', zIndex: 2 }}>© 2026 EvolusiTech Store</span>
       </aside>
 
       {/* Right panel — Google login only */}

diff --git a/app/src/components/Brand.jsx b/app/src/components/Brand.jsx
@@ -1,11 +1,11 @@
 export default function Brand({ light = false, compact = false, className = '' }) {
   return (
     <span className={`brand-lockup ${light ? 'brand-lockup-light' : ''} ${compact ? 'brand-lockup-compact' : ''} ${className}`.trim()}>
-      <img src="/upbit-store-mark.png" alt="" className="brand-mark" aria-hidden="true" />
+      <img src="/evolusitech-store-mark.svg" alt="" className="brand-mark" aria-hidden="true" />
       <span className="brand-wordmark" aria-hidden="true">
-        <span>UPBIT</span><span>STORE</span>
+        <span>EVOLUSITECH</span><span>STORE</span>
       </span>
-      <span className="sr-only">Upbit Store</span>
+      <span className="sr-only">EvolusiTech Store</span>
     </span>
   )
 }

diff --git a/app/src/pages/Balance.jsx b/app/src/pages/Balance.jsx
@@ -614,7 +614,7 @@ export default function Balance() {
                     )}
                     {tuMethod === 'alipay' && (
                       <div className="text-muted" style={{ fontSize: 12.5, padding: '2px 4px' }}>
-                        Alipay: bayar ke merchant <b>Upbit Store</b> sebesar <b>{formatCurrency(tuTotal, 'id')}</b>, lalu isi nomor referensi di langkah berikutnya.
+                        Alipay: bayar ke merchant <b>EvolusiTech Store</b> sebesar <b>{formatCurrency(tuTotal, 'id')}</b>, lalu isi nomor referensi di langkah berikutnya.
                       </div>
                     )}
                     {tuMethod === 'paygo' && (

diff --git a/app/src/data/payment.js b/app/src/data/payment.js
@@ -1,4 +1,4 @@
-// Konfigurasi pembayaran Upbit Store.
+// Konfigurasi pembayaran EvolusiTech Store.
 // Dua metode: QRIS & Crypto (BNB / USDT on BNB Smart Chain).
 
 // Fee pembayaran (payment gateway) — flat Rupiah, ditambahkan ke total saat checkout.
@@ -22,7 +22,7 @@ function crc16(str) {
 }
 
 export const QRIS = {
-  merchant: 'Upbit Store',
+  merchant: 'EvolusiTech Store',
   nmid: 'ID1026568515229',
   // QRIS DINAMIS: sisipkan nominal (tag 54), ubah jadi dynamic (POI 11→12),
   // lalu hitung ulang CRC. Hasilnya nominal terisi otomatis di app pembayaran

diff --git a/server/src/index.js b/server/src/index.js
@@ -125,7 +125,7 @@ app.use((req, res) => res.status(404).json({ error: 'Not found' }))
 // sebagai handler — Vercel set process.env.VERCEL otomatis.
 const PORT = process.env.PORT || 4000
 if (!process.env.VERCEL) {
-  app.listen(PORT, () => console.log(`Upbit Store API berjalan di http://localhost:${PORT}`))
+  app.listen(PORT, () => console.log(`EvolusiTech Store API berjalan di http://localhost:${PORT}`))
   startRatingShuffler() // acak rating + refresh tanggal + tambah ulasan harian (1×/hari)
 }
 
